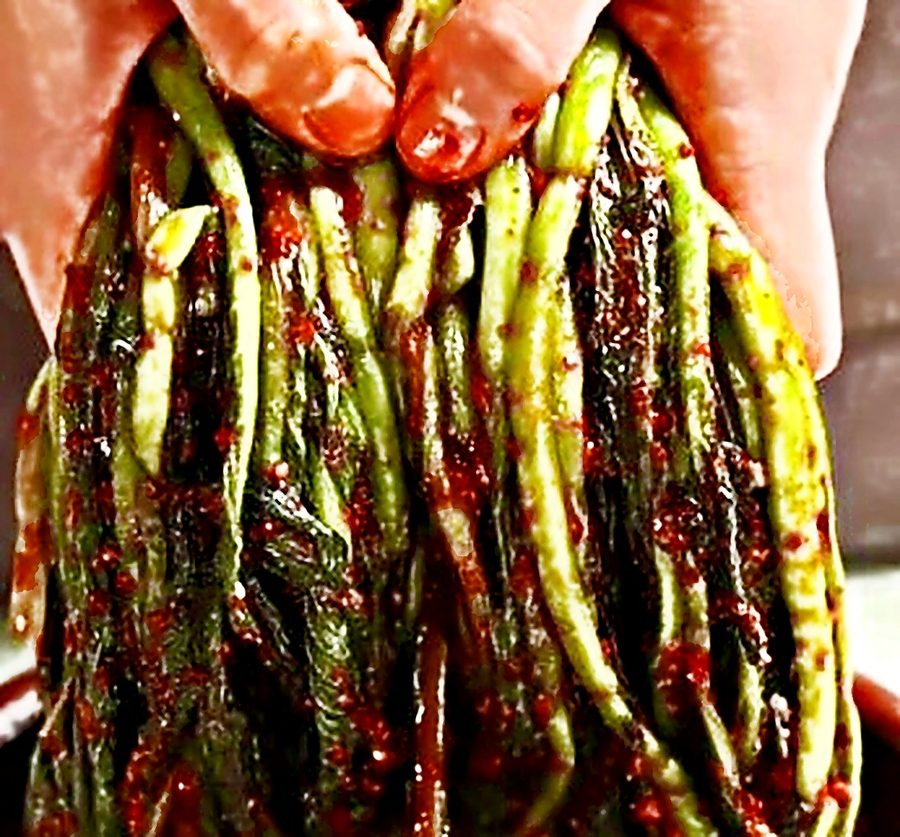
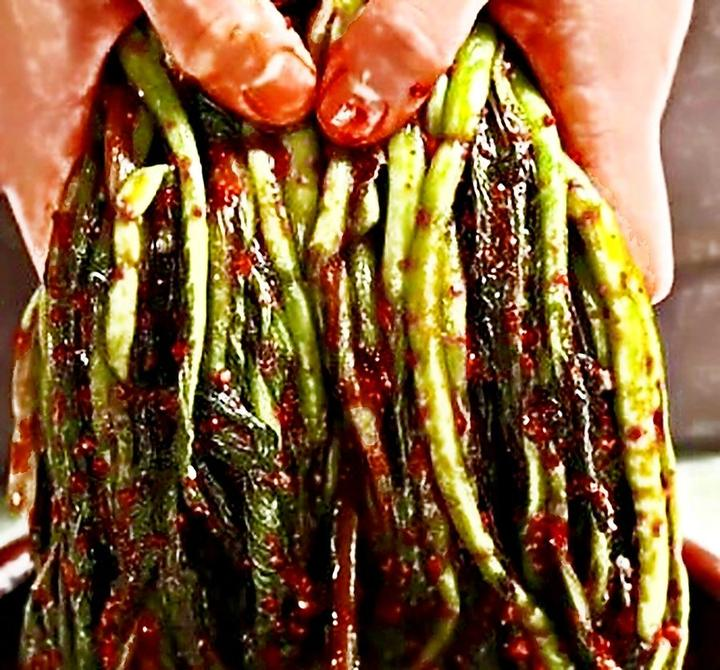
🥬 김치 카드 사진 끊김 고침: 가볍고 흐리게→선명 사진, 실패 시 다시 받기, 영상은 사진 뒤에
Claude-Session: https://claude.ai/code/session_01Q9nWZqPVdnSHJg8RPeoydk

diff --git a/kimchi/index.html b/kimchi/index.html
@@ -36,7 +36,7 @@
     label{font-size:20px;line-height:1.6;font-weight:800;word-break:keep-all}.qty{display:flex;align-items:center;gap:14px;margin:10px 0 16px}.qty button{width:42px;height:42px;border:1px solid #ddd;border-radius:10px;background:#fff;font-size:33px}
     .total{font-size:35px;font-weight:900;color:#9b2424}.foot{text-align:center;color:#786e66;font-size:18px;line-height:1.8;padding:22px 8px;word-break:keep-all}
     .kakao-bottom{display:grid;position:fixed;left:0;right:0;bottom:0;z-index:1000;padding:8px 9px calc(8px + env(safe-area-inset-bottom));background:#fff;border-top:1px solid #eadbd2;box-shadow:0 -4px 18px #00000012;grid-template-columns:repeat(4,minmax(0,1fr));gap:6px;max-width:560px;margin:0 auto}.kakao-bottom .btn{min-width:0;min-height:42px;font-size:12px;line-height:1.2;padding:7px 2px;border-radius:11px;white-space:nowrap;letter-spacing:-.5px}.kakao-bottom .home{background:#7f1d1d;color:#fff}.kakao-bottom .where{background:#fff0e7;color:#8b3c21}.kakao-bottom .play{background:#fce8ec;color:#8b2437}.kakao-bottom .alim{background:#f4eee5;color:#59432d}body{padding-bottom:90px}.cherry-tap{display:flex;align-items:center;justify-content:center;gap:9px;padding:12px 0 4px}.cherry-tap img{width:48px;height:48px;object-fit:contain;animation:cherryTap 1.4s ease-in-out infinite}.cherry-tap .barrel{font-size:34px;display:inline-block;transform-origin:center;animation:barrelBump 1.4s ease-in-out infinite}@keyframes cherryTap{0%,100%{transform:translateY(0) rotate(-5deg)}45%{transform:translateY(-7px) rotate(8deg)}60%{transform:translateY(0) rotate(-8deg)}}@keyframes barrelBump{0%,35%,100%{transform:rotate(0)}48%{transform:rotate(-9deg) translateX(-2px)}58%{transform:rotate(8deg) translateX(2px)}}
-    .greeting-wide{display:block;width:100%;height:auto;border-radius:14px;margin:4px 0 14px;box-shadow:0 5px 16px #3b21151c}.kimchi-shot{margin:8px 0 0;background:#fff;border-radius:18px;overflow:hidden;box-shadow:0 5px 16px #3b21151c}.kimchi-shot img{display:block;width:100%;height:auto;aspect-ratio:4/3;object-fit:cover}.kimchi-shot figcaption{padding:11px 16px 13px;font-size:18px;line-height:1.5;font-weight:800;color:#7f1d1d;text-align:center;word-break:keep-all}
+    .greeting-wide{display:block;width:100%;height:auto;aspect-ratio:720/670;background:#f3e3d8;border-radius:14px;margin:4px 0 14px;box-shadow:0 5px 16px #3b21151c}.kimchi-shot{margin:8px 0 0;background:#fff;border-radius:18px;overflow:hidden;box-shadow:0 5px 16px #3b21151c}.kimchi-shot img{display:block;width:100%;height:auto;aspect-ratio:4/3;object-fit:cover;background:#f3e3d8}.kimchi-shot figcaption{padding:11px 16px 13px;font-size:18px;line-height:1.5;font-weight:800;color:#7f1d1d;text-align:center;word-break:keep-all}
     .acct-copy{display:block;width:100%;margin-top:10px;min-height:48px;border:0;border-radius:12px;background:#b3132b;color:#fff;font:inherit;font-size:18px;font-weight:900;cursor:pointer}.acct-copy.done{background:#2f7a62}
     .replay{position:fixed;right:10px;top:calc(54px + env(safe-area-inset-top));z-index:50;width:44px;height:44px;border-radius:50%;border:1px solid rgba(110,68,21,.18);background:rgba(255,255,255,.92);color:#B3132B;display:grid;place-items:center;cursor:pointer;box-shadow:0 2px 6px rgba(110,68,21,.16)}.replay svg{width:22px;height:22px;fill:none;stroke:currentColor;stroke-width:1.9;stroke-linecap:round;stroke-linejoin:round}
   </style>
@@ -53,7 +53,7 @@
   <main class="wrap">
     <section class="section video-section">
       <div class="video">
-        <iframe src="https://www.youtube-nocookie.com/embed/vkYVQEIOc5I?autoplay=1&mute=1&playsinline=1&loop=1&playlist=vkYVQEIOc5I&rel=0&controls=1&modestbranding=1" title="여수 언니 갓김치 영상" loading="lazy" referrerpolicy="strict-origin-when-cross-origin" allow="accelerometer; autoplay; clipboard-write; encrypted-media; gyroscope; picture-in-picture; web-share" allowfullscreen></iframe>
+        <iframe id="kvid" data-src="https://www.youtube-nocookie.com/embed/vkYVQEIOc5I?autoplay=1&mute=1&playsinline=1&loop=1&playlist=vkYVQEIOc5I&rel=0&controls=1&modestbranding=1" title="여수 언니 갓김치 영상" loading="lazy" referrerpolicy="strict-origin-when-cross-origin" allow="accelerometer; autoplay; clipboard-write; encrypted-media; gyroscope; picture-in-picture; web-share" allowfullscreen></iframe>
       </div>
     </section>
     <section class="section">
@@ -61,14 +61,14 @@
         <a class="sava-about-btn" href="/?story=1" aria-label="싸바가 뭐지? 소개 페이지">싸바?</a>
         <h2><span class="gl">여수 언니의 손맛, 올해도</span><span class="gl">어김없이 찾아왔습니다 🌿</span></h2>
       </div>
-      <img class="greeting-wide" src="/img/gatkimchi-gloss.jpg?v=1" alt="두 손으로 잡고 있는 여수 언니 갓김치" width="900" height="837" loading="eager">
+      <img class="greeting-wide" src="/img/gatkimchi-gloss.jpg?v=2" alt="두 손으로 잡고 있는 여수 언니 갓김치" width="720" height="670" loading="eager" fetchpriority="high" decoding="async">
       <p>사랑하는 친구, 지인 여러분!</p>
       <p>어느덧 한 해의 끝자락에 다가왔네요. 모두 평안하고 건강하게 잘 지내고 계시죠? 😊</p>
       <p>매년 이맘때면 잊지 않고 여수 언니 김치를 찾아주시고 맛있게 드셔주시는 여러분께 진심으로 감사드립니다. 보내주시는 따뜻한 응원과 사랑 덕분에 올해도 기쁜 마음으로 김장 소식을 전합니다.</p>
       <p>소중한 친구와 지인 여러분께 먼저 전해드리고 싶어 <strong>딱 50박스 한정</strong>으로 준비했습니다!</p>
       <p><strong>압구정 순천만 주인 지연숙 드림</strong></p>
     </section>
-    <figure class="kimchi-shot"><img src="/img/gatkimchi-sesame.jpg?v=1" alt="깨를 뿌린 여수 돌산 갓김치" width="880" height="850" loading="lazy"><figcaption>양념 듬뿍, 고소한 깨 송송 🌿</figcaption></figure>
+    <figure class="kimchi-shot"><img src="/img/gatkimchi-sesame.jpg?v=2" alt="깨를 뿌린 여수 돌산 갓김치" width="720" height="695" loading="lazy"><figcaption>양념 듬뿍, 고소한 깨 송송 🌿</figcaption></figure>
     <section class="section">
       <h2>🥬 여수 돌산 갓김치</h2>
       <ul class="features">
@@ -78,7 +78,7 @@
       </ul>
       <p class="price-note">※ 원재료·생산일·배송 일정은 판매자 확인 정보에 맞춰 최종 표기합니다.</p>
     </section>
-    <figure class="kimchi-shot"><img src="/img/gatkimchi-roll.jpg?v=2" alt="한 줄기씩 돌돌 말아 상에 낸 갓김치" width="768" height="720" loading="lazy"><figcaption>이렇게 한 줄기씩 돌돌 말아 대접해도 좋아요</figcaption></figure>
+    <figure class="kimchi-shot"><img src="/img/gatkimchi-roll.jpg?v=3" alt="한 줄기씩 돌돌 말아 상에 낸 갓김치" width="720" height="684" loading="lazy"><figcaption>이렇게 한 줄기씩 돌돌 말아 대접해도 좋아요</figcaption></figure>
     <section class="section order">
       <h2>🛒 주문하기</h2>
       <p><strong>5kg 한 박스 60,000원 · 배송비 포함</strong></p>
@@ -189,6 +189,19 @@ fit();window.addEventListener('resize',fit);if(document.fonts&&document.fonts.re
   }
   document.getElementById('orderKakao').addEventListener('click',function(){stat('order');});
   document.getElementById('orderKakao').addEventListener('click',goSavaOrder);})();
+</script>
+<script>
+/* 사진: 약한 신호에서 받다 끊기면 한 번 더 받기(최대 2번) · 영상은 첫 사진이 뜬 뒤(또는 3초 뒤) 불러와 사진이 먼저 오게 */
+(function(){
+  document.querySelectorAll('main img').forEach(function(im){
+    var n=0;function retry(){if(n>=2)return;n++;var u=im.getAttribute('src').replace(/([?&])r=\d+/,'').replace(/[?&]$/,'');setTimeout(function(){im.src=u+(u.indexOf('?')<0?'?':'&')+'r='+n;},800*n);}
+    im.addEventListener('error',retry);
+    if(im.complete&&im.naturalWidth===0&&im.getAttribute('loading')!=='lazy')retry();
+  });
+  var v=document.getElementById('kvid'),g=document.querySelector('.greeting-wide'),done=0;
+  function go(){if(done||!v)return;done=1;v.src=v.getAttribute('data-src');}
+  if(!g||(g.complete&&g.naturalWidth))go();else{g.addEventListener('load',go);g.addEventListener('error',go);setTimeout(go,3000);}
+})();
 </script>
 <script src="/js/sound.js"></script>
 <script>

diff --git a/app/index.html b/app/index.html
@@ -578,7 +578,7 @@
     #v-home.v2 .v2-mk .mkph { position: relative; display: block; aspect-ratio: 16 / 9; margin: 0; overflow: hidden; background: #E9E3B0; border-radius: 22px 22px 0 0; } /* 11-22 대표님: 가로 꽉 차게 16:9 */
     /* 11-22: 언니김치 특판은 싸바카드에서 빼서 따로 카드 하나 (16:9 사진 + 글씨 + 단추) */
     #v-home.v2 .v2-kc { background: #fff; color: #1A1A1A; }
-    #v-home.v2 .v2-kc .kp { display: block; aspect-ratio: 16 / 9; background: url(../img/kimchi-wide.jpg) center/cover; position: relative; }
+    #v-home.v2 .v2-kc .kp { display: block; aspect-ratio: 16 / 9; background: url(../img/kimchi-wide.jpg?v=2) center/cover; position: relative; }
     #v-home.v2 .v2-kc { margin-top: 28px; }
     /* 11-22 대표님: 빨간 특판이 너무 셈 → '싸바 특판', 글씨 2/3(34→23px), 부드러운 체리색 + 어제 알림판처럼 흔들리는 광고판 */
     /* 11-22 대표님: 흔들리는 간판은 촌스러움 → 체리 한 알 안에 '싸바 특판' 글씨, 꼭지에 매달린 체리 알이 살랑 */

diff --git a/sw.js b/sw.js
@@ -1,5 +1,5 @@
 /* 싸바 서비스워커 — 새 파일을 먼저 받고(network-first), 인터넷이 약하면 저장해 둔 화면을 보여줌 */
-var CACHE = 'sava-v450';
+var CACHE = 'sava-v451';
 var SHELL = ['./', './app/', './eodiya/', './lucky/', './shoot/', './fly/', './pool/', './match/', './rps/', './updown/', './mole/', './chosung/', './eye/', './react/', './omok/', './baduk/', './alkkagi/', './pang/', './grow/', './emo/', './make/', './c/', './css/brand.css', './css/sk.css', './css/sk-world.css',
   './js/codec.js', './js/store.js', './js/designs.js', './js/render.js', './js/roster.js', './js/album.js', './js/notice.js', './js/share.js', './js/msgimg.js', './js/install.js', './js/sound.js',
   './img/icon-192.png?v=4', './img/cherry.webp', './img/cherry-dance-anim.svg', './manifest.webmanifest'];

diff --git a/docs/STATUS.md b/docs/STATUS.md
@@ -3,7 +3,7 @@
 > 대화방을 닫기 전에 Claude가 이 파일을 최신으로 고쳐서 커밋한다.
 > 새 방에서 "싸바"라고 하면: 이 파일 → 최근 커밋 순서로 확인하고 바로 이어서 작업.
 
-마지막 갱신: 2026-11-23 04:20 (474)
+마지막 갱신: 2026-11-23 04:35 (476)
 
 ## 0. 🔑 API 키 넣기 — ⚠ 대표님이 먼저 말씀하실 때까지 꺼내지 않기 (11-23 04:00 대표님: '키는 담에 내가 먼저 이야기하께')
 - 방식: 대표님은 아이폰으로 대화, 맥북 크롬(Claude in Chrome)으로 Claude가 진행. 로그인·비밀번호만 대표님, 키 신청·Cloudflare 입력은 Claude(넣기·다시 배포 직전 한 번 확인)
@@ -13,6 +13,7 @@
 - ※ 설정에 관리자 칸 사라짐: SAVA_ADMIN_UID=1 → 대표님 폰 로그인 회원번호가 1이 아니면 안 보임. 회원번호 확인 후 맞추기
 
 ## 1. 마지막으로 올린 작업
+- 2026-11-23 04:35 — 대표님: 김치 카드(kimchi/) 인사말 사진이 위 띠만 나오고 하얗게 비어 보임 → 원인: 파일은 정상, 약한 신호(5G 1~2칸)에서 위 유튜브 자동재생과 같이 받다가 끊김 + 위에서부터 그리는 baseline JPEG라 윗부분만 남음. 고침(476): ① 사진 4장(gatkimchi-gloss·sesame·roll, 홈 kimchi-wide) 가로 720px·흐리게 전체→선명 progressive JPEG로 다시 저장(합 540KB→337KB), 주소 ?v 올림 ② 사진 오기 전엔 옅은 김치색(#f3e3d8) 바탕·비율 고정 ③ 받다 실패하면 저절로 2번까지 다시 받기 ④ 유튜브는 첫 사진이 뜬 뒤(늦어도 3초 뒤) 불러옴(iframe id kvid data-src) · 버전 2026.11.23-476 / sw sava-v451 ※ 폰 확인: 신호 약한 곳에서 김치 카드 열어 보기
 - 2026-11-23 04:25 — 대표님 '체리알이 너무 커, 한 줄 4개, 둥글게' + '공짜 이모티콘 촌스러움 → 모두 버리고 예쁘고 귀엽고 재미있게 100개, 여러 모양' (475):
   ① 놀이터(eodiya/#playground .pg): 한 줄 4개, 동그란 체리 알(최대 76px) + 꼭지·잎 + 반짝 빛, 이름은 알 아래(13.5px 진갈색), 작은 설명(span)은 숨김. 큰 글씨 폰은 한 줄 3개. 살랑·콕 까딱 그대로
   ② 공짜 이모티콘(emo/) 새로 100개: tools/emo_gen.py가 그림(파이썬 PIL)으로 만듦 — 캐릭터 18가지(곰·고양이·토끼·병아리·돼지·개구리·펭귄·강아지·만두·복숭아·구름·두부·유령·별·하트·주먹밥·달걀·체리) × 표정 14가지 × 움직임 12가지(통통·흔들·도리도리·두근…) × 효과(하트·반짝·Zzz·땀·눈물·음표·꽃가루·비·눈·불꽃…) × 소품(맥주·커피·전화·꽃·케이크·밥·선물). 240px 투명 움직이는 GIF, 12장, 글씨 아래(흰 테+진갈 테). 주제 11가지(인사 12·대답 12·감정 14·고마움 8·약속 10·먹고 마시기 10·축하 10·가족 8·응원 8·사투리 4·날씨·일상 4). 목록·글씨 고칠 땐 emo_gen.py의 L 표 → 다시 실행 → 찍힌 목록을 emo/index.html EMO에 붙여 넣기. 화면 4칸 격자, 그림 주소 ?v=2(옛 그림 캐시 버림). 전체 9.9MB
